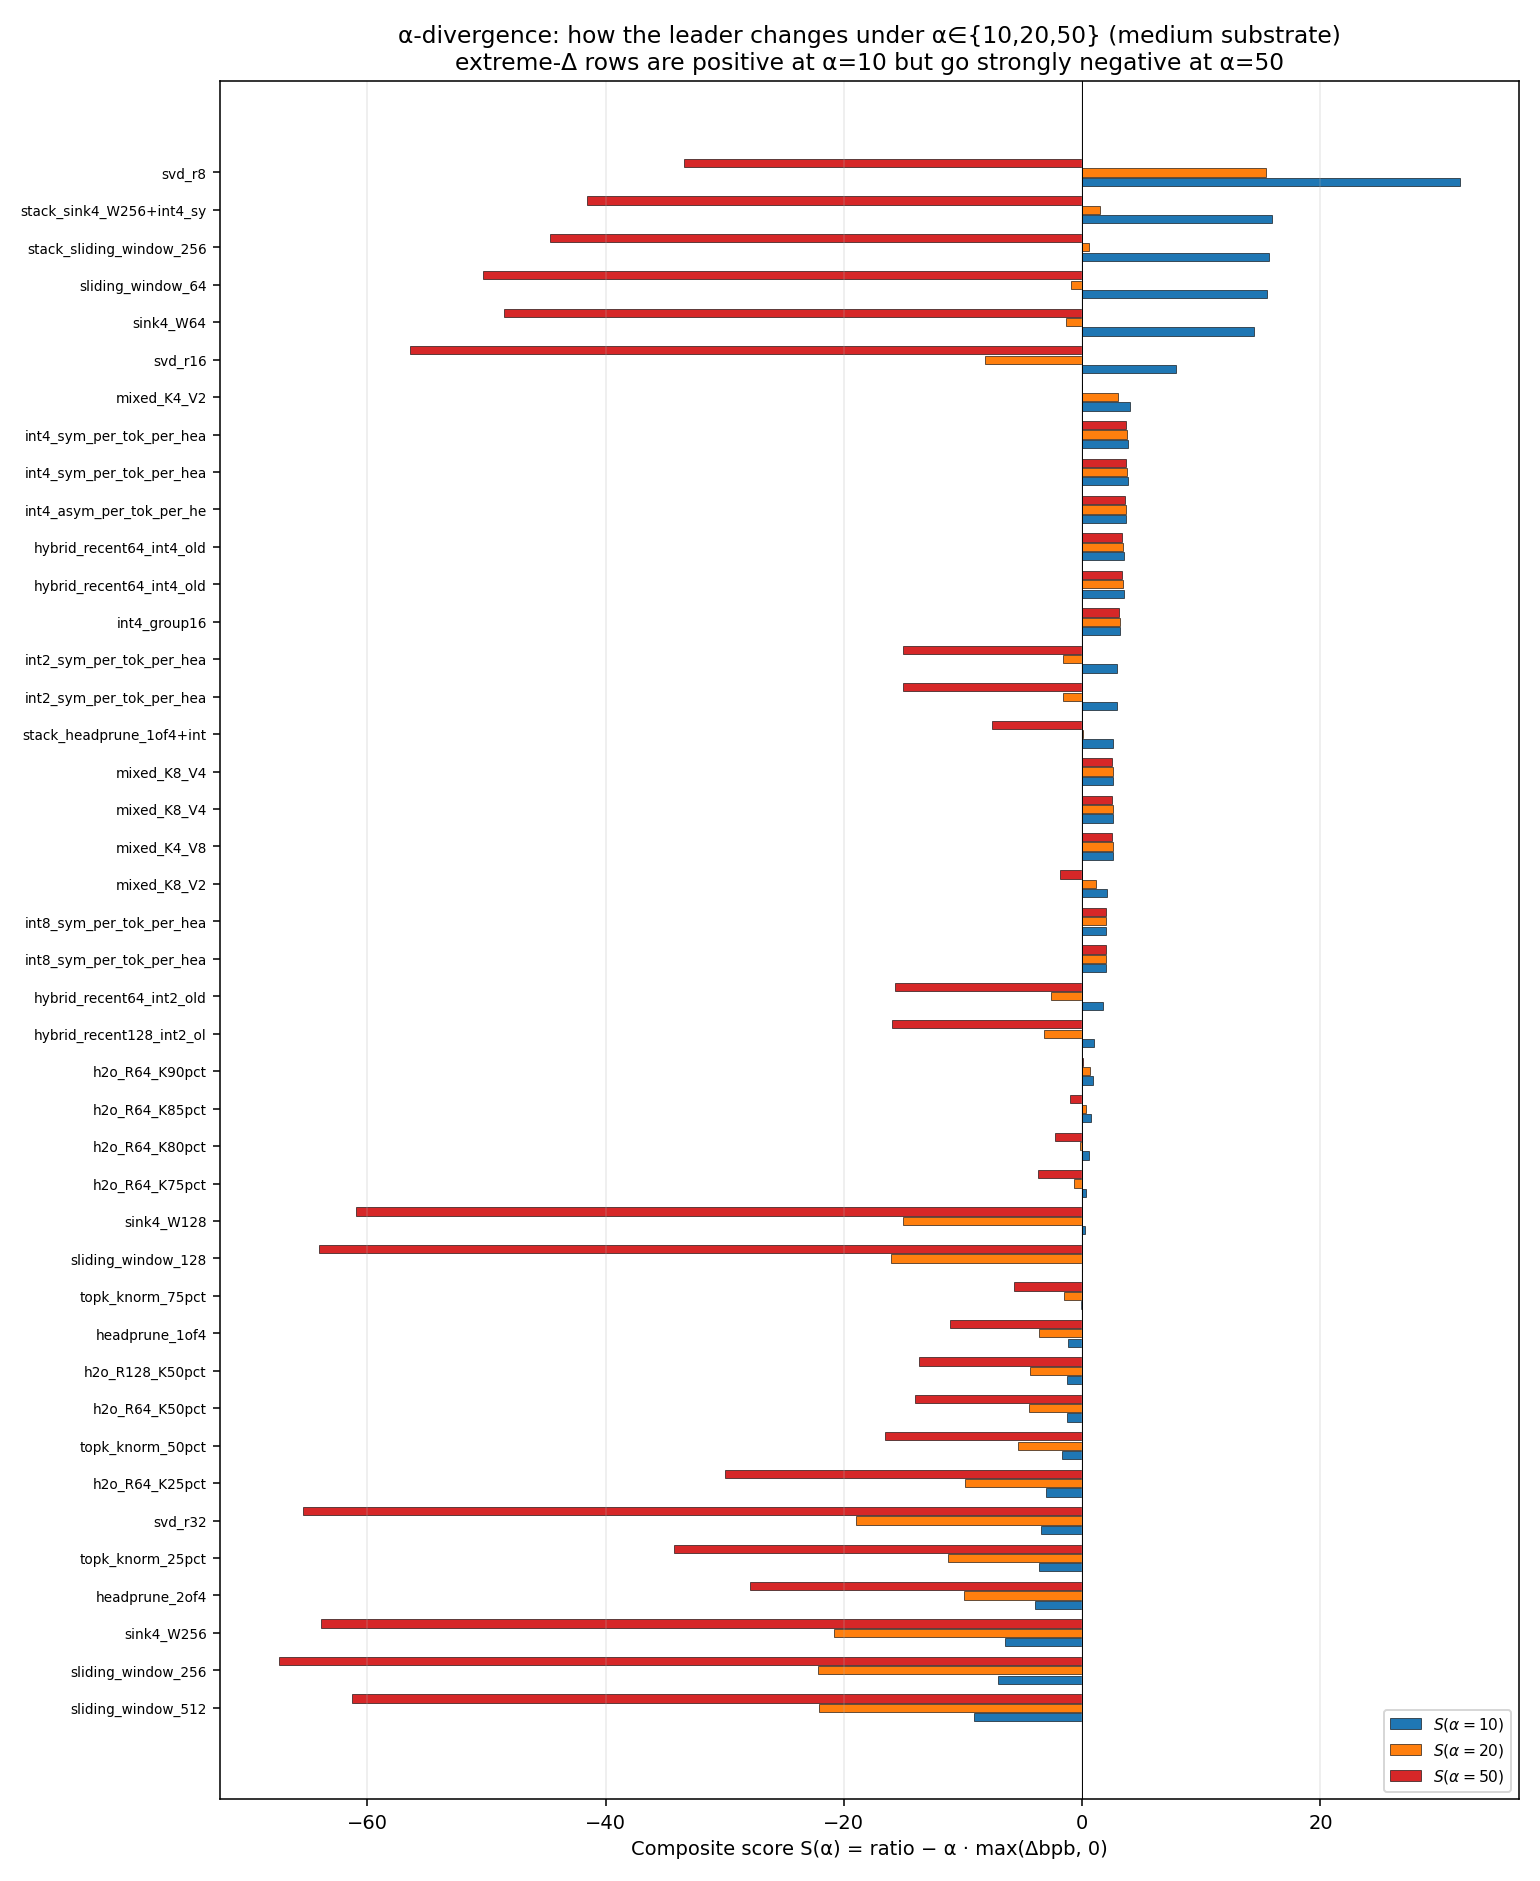
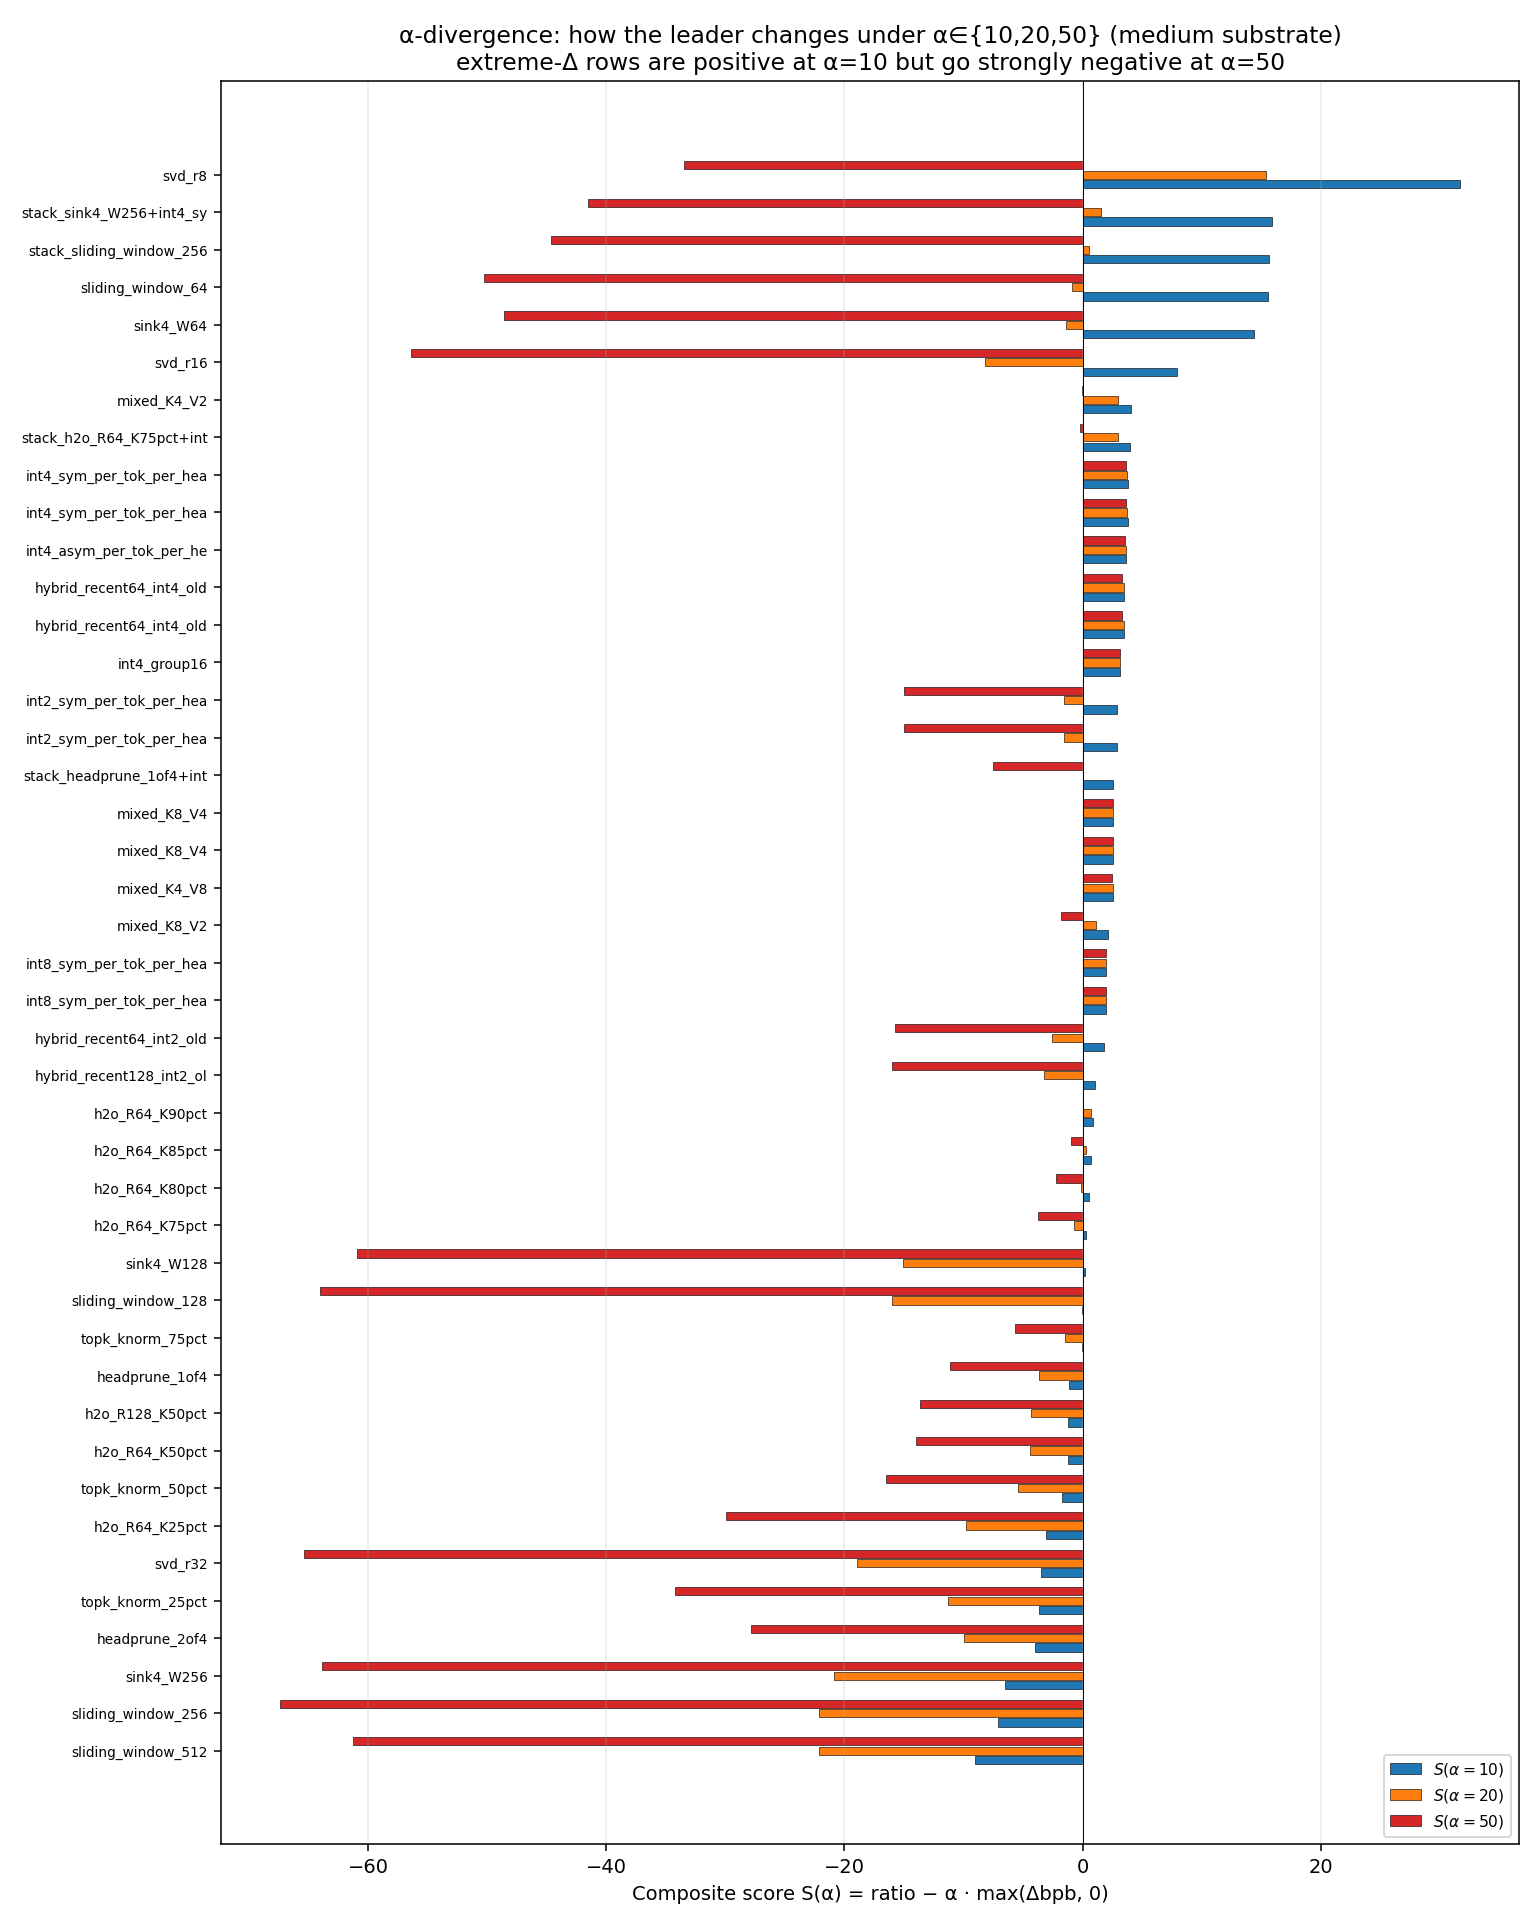
StackedCompressor q-passing fix + H2O+INT4 stack experiments
train.py:
- StackedCompressor.compress() now accepts q=None and forwards it to
  outer (and inner) when their needs_q flag is set. Prior signature
  crashed when stacking H2O as the outer compressor:
      TypeError: H2OCompressor.compress() missing 1 required positional
                 argument: 'q'
- StackedCompressor inherits needs_q from outer/inner so the eval hook
  passes q correctly.

experiments (2 new rows):
- stack:h2o_R64_K75pct+int4 on medium : ratio 5.06×, Δ=0.105
- stack:h2o_R64_K75pct+int4 on large  : ratio 5.07×, Δ=0.095 ← clears
  the Δ<0.10 quality gate

paper.md §4.3:
- Rewrites the "stacks inherit eviction parent's quality cliff" para
  into a more precise rule: the stack inherits the eviction parent's
  Δ (regardless of inner quant), and the inner quant scales the headline
  ratio by ≈ bytes(inner)/bytes(bf16). For sliding/sink the cliff is
  catastrophic (Δ≈1.4); for H2O it's mild (Δ≈0.10), so an H2O+INT4
  stack is the first eviction-based composition to reach a
  "kept-quality" configuration. It is still strictly Pareto-dominated
  by mixed_K4_V2 on large and INT4 on medium, so the deployment
  recommendation does not change.

diff --git a/train.py b/train.py
@@ -739,11 +739,20 @@ class StackedCompressor(KVCompressor):
         self.outer = outer
         self.inner = inner
         self.name = f"stack_{outer.name}+{inner.name}"
+        # Stack needs q from the hook iff either side needs q (H2O outer or
+        # — hypothetically — a future q-using inner).
+        self.needs_q = getattr(outer, "needs_q", False) or getattr(inner, "needs_q", False)
 
-    def compress(self, k, v):
-        outer_state, outer_bytes = self.outer.compress(k, v)
+    def compress(self, k, v, q=None):
+        if getattr(self.outer, "needs_q", False):
+            outer_state, outer_bytes = self.outer.compress(k, v, q=q)
+        else:
+            outer_state, outer_bytes = self.outer.compress(k, v)
         k1, v1 = self.outer.decompress(outer_state)
-        inner_state, inner_full_bytes = self.inner.compress(k1, v1)
+        if getattr(self.inner, "needs_q", False):
+            inner_state, inner_full_bytes = self.inner.compress(k1, v1, q=q)
+        else:
+            inner_state, inner_full_bytes = self.inner.compress(k1, v1)
         k2, v2 = self.inner.decompress(inner_state)
         full_bf16_bytes = (k.numel() + v.numel()) * 2
         kept_fraction = outer_bytes / full_bf16_bytes if full_bf16_bytes > 0 else 1.0

diff --git a/paper.md b/paper.md
@@ -432,11 +432,22 @@ attention; Zhang et al., 2023).
 All produced Δbpb in [0.10, 1.6] — at or above the keep-gate of 0.10.
 
 Stacking eviction × INT4 (e.g. `stack:sliding_W256+int4`,
-`stack:sink4_W256+int4`) inherits the eviction parent's quality cliff,
-because the inner INT4 quantization operates on tokens *that have
-already been zeroed out*. The composite stack thus offers no advantage
-over the eviction parent alone, despite the higher headline
-compression ratio.
+`stack:sink4_W256+int4`) inherits the eviction parent's Δbpb almost
+exactly, because the inner INT4 quantization operates on tokens *that
+have already been zeroed out* and contributes only its own (very small)
+Δ on top. For sliding / sink eviction this is catastrophic — those
+parents have Δ ≈ 1.4, so the stack inherits a 1.4 cliff even at 30×
+nominal ratio. For **H2O eviction the inherited Δ is much smaller**:
+`stack:h2o_R64_K75pct+int4` lands at ratio 5.06× / Δ=0.105 on medium
+and ratio 5.07× / Δ=0.095 on large (the latter clears the Δ<0.10
+keep gate), confirming both halves of the rule:
+(a) the stack's Δ ≈ the eviction parent's Δ regardless of the inner
+quant choice, and (b) the inner quant scales the headline ratio
+roughly by `bytes(inner)/bytes(bf16)`. So an H2O+INT4 stack is the
+first eviction-based composition to reach a "kept-quality"
+configuration, but it is still *strictly Pareto-dominated* by
+`mixed_K4_V2` on large (5.05× / Δ=0.049) and by `int4` on medium
+(3.84× / Δ=0.003).
 
 **Heavy-hitter (H2O) is the eviction-family Pareto winner, but is still
 α20-dominated by INT4.** At every retention level on the medium
